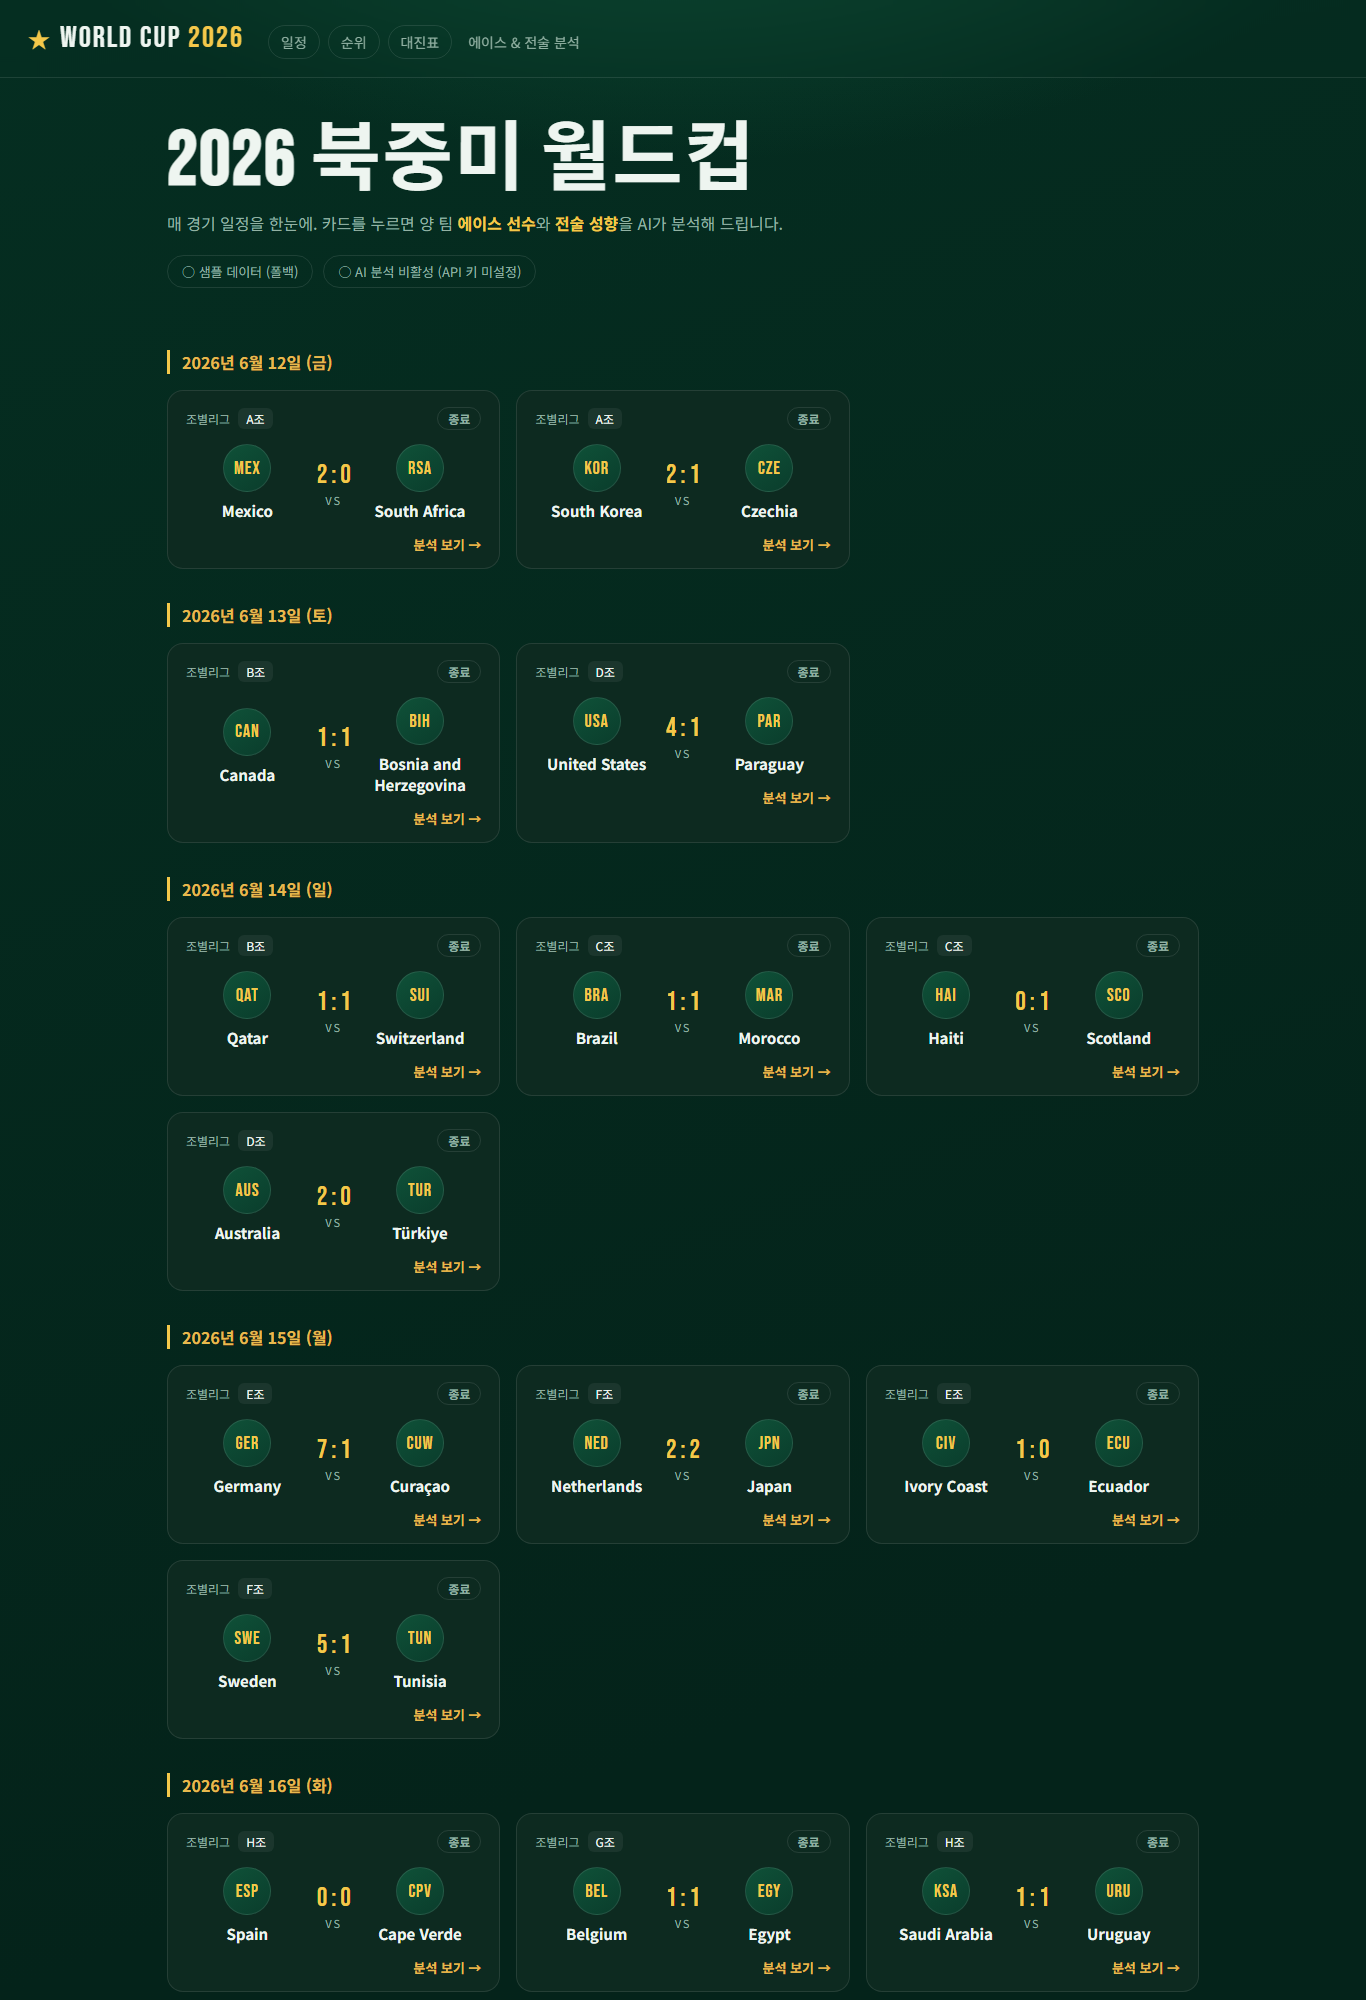
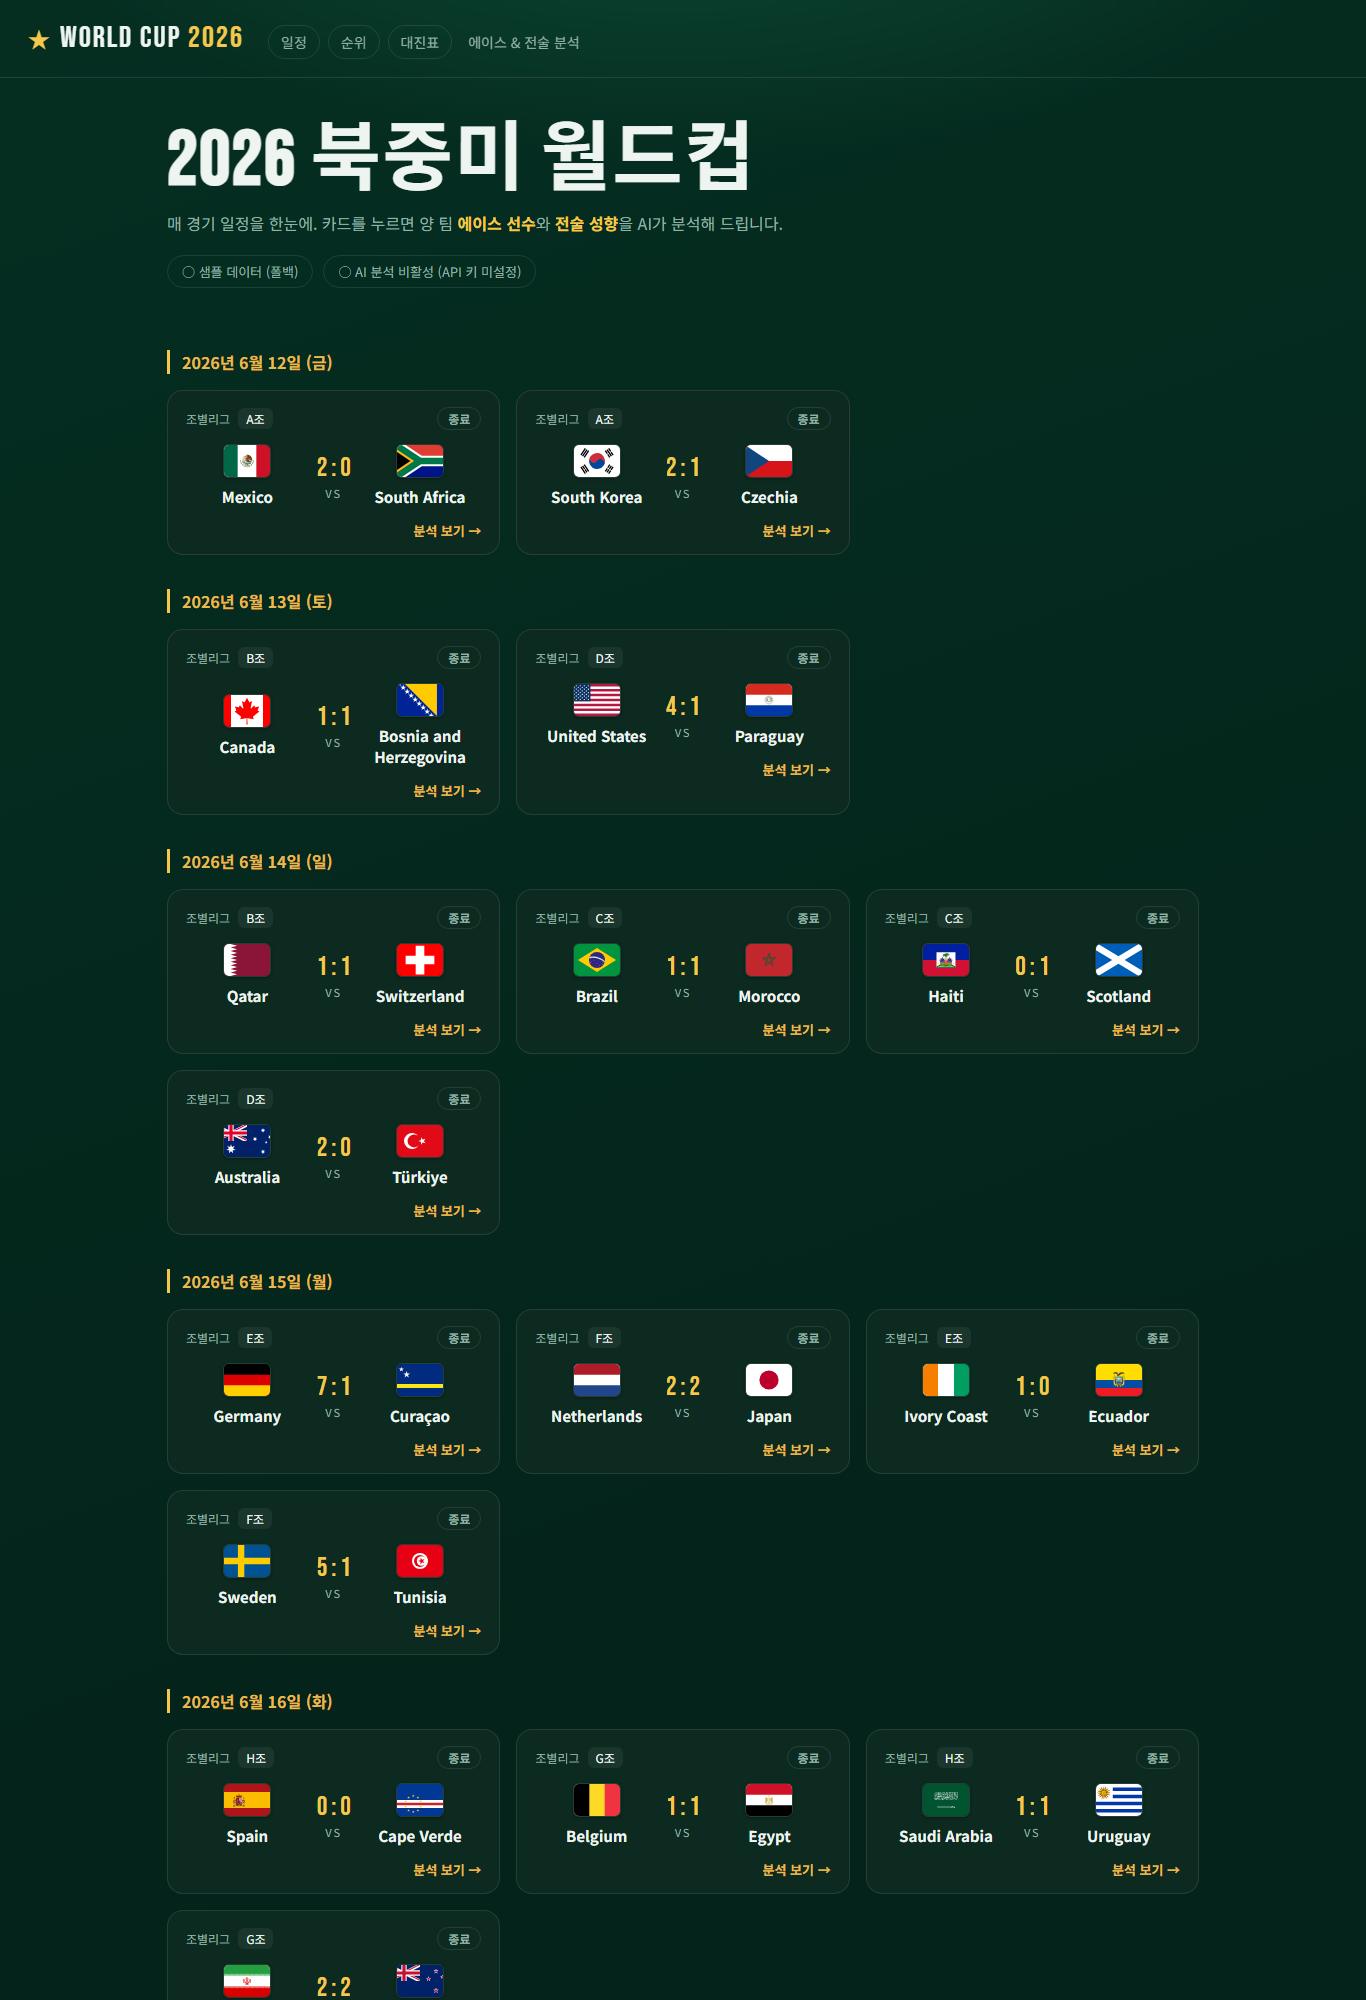
feat: show national flags across schedule, standings, bracket and match views
Add a Flags helper (@user) mapping team name -> ISO country code and serve
flags from flagcdn when the API-Football crest is unavailable (e.g. bundled
sample data). Flags appear on the schedule cards, group/third-place tables,
knockout bracket slots (resolved teams only), match scoreboard and team page,
making the bracket in particular much more visual.

Flag URLs are resolved via th:with before th:src, since Thymeleaf forbids bean
access in the restricted th:src/th:href expression context. Refresh README
screenshots and add the bracket screenshot.

diff --git a/src/main/resources/static/css/styles.css b/src/main/resources/static/css/styles.css
@@ -133,6 +133,20 @@ a { color: inherit; text-decoration: none; }
 .crest { width: 48px; height: 48px; object-fit: contain; }
 .crest.lg { width: 78px; height: 78px; }
 
+/* National flags (flagcdn) — used when no API crest is available */
+.flag {
+    width: 48px; height: 34px; object-fit: cover;
+    border-radius: 6px; border: 1px solid var(--line);
+    box-shadow: 0 1px 3px rgba(0, 0, 0, 0.35);
+}
+.flag.lg { width: 78px; height: 56px; border-radius: 8px; }
+.team-hero h1 { display: inline-flex; align-items: center; gap: 12px; }
+/* Compact inline flags inside tables and bracket slots */
+.c-team .flag, .slot .flag {
+    width: 22px; height: 16px; border-radius: 3px;
+    box-shadow: none; flex: none;
+}
+
 .center { display: flex; flex-direction: column; align-items: center; }
 .score { font-family: 'Bebas Neue', sans-serif; font-size: 26px; color: var(--gold); }
 .kickoff { font-family: 'Bebas Neue', sans-serif; font-size: 22px; }
@@ -256,9 +270,11 @@ a { color: inherit; text-decoration: none; }
     background: var(--gold); padding: 1px 7px; border-radius: 6px;
 }
 .slot {
+    display: flex; align-items: center; gap: 8px;
     font-size: 13px; font-weight: 700; padding: 7px 9px;
     background: var(--card-soft); border-radius: 8px;
 }
+.slot-name { min-width: 0; }
 .slot-vs { font-size: 10px; color: var(--muted); text-align: center; letter-spacing: 2px; margin: 4px 0; }
 
 /* ---------- Standings ---------- */
@@ -283,7 +299,7 @@ table.standings td { text-align: center; padding: 7px 4px; border-bottom: 1px so
 table.standings tr:last-child td { border-bottom: none; }
 .c-rank { width: 22px; color: var(--muted); }
 .c-team { text-align: left; font-weight: 700; }
-.c-team a { color: inherit; }
+.c-team a { color: inherit; display: inline-flex; align-items: center; gap: 7px; }
 .c-team a:hover { color: var(--gold); text-decoration: underline; }
 .c-pts { font-weight: 900; color: var(--gold); }
 

diff --git a/src/main/resources/templates/standings.html b/src/main/resources/templates/standings.html
@@ -34,8 +34,11 @@
                 <tr th:each="row, iter : ${entry.value.rows}"
                     th:classappend="${iter.index < 2} ? 'qual' : (${iter.index == 2} ? 'third' : 'out')">
                     <td class="c-rank" th:text="${iter.index + 1}">1</td>
-                    <td class="c-team">
-                        <a th:href="@{/teams/{n}(n=${row.team})}" th:text="${row.team}">팀</a>
+                    <td class="c-team" th:with="furl=${@flags.url(row.team)}">
+                        <a th:href="@{/teams/{n}(n=${row.team})}">
+                            <img class="flag" th:if="${furl != ''}" th:src="${furl}" alt="" loading="lazy"/>
+                            <span th:text="${row.team}">팀</span>
+                        </a>
                     </td>
                     <td th:text="${row.played}">3</td>
                     <td class="c-pts" th:text="${row.points}">9</td>
@@ -74,8 +77,11 @@
                 <tr th:each="tp : ${thirds}" th:classappend="${tp.qualified} ? 'qual' : 'out'">
                     <td class="c-rank" th:text="${tp.rank}">1</td>
                     <td th:text="${tp.group} + '조'">A조</td>
-                    <td class="c-team">
-                        <a th:href="@{/teams/{n}(n=${tp.row.team})}" th:text="${tp.row.team}">팀</a>
+                    <td class="c-team" th:with="furl=${@flags.url(tp.row.team)}">
+                        <a th:href="@{/teams/{n}(n=${tp.row.team})}">
+                            <img class="flag" th:if="${furl != ''}" th:src="${furl}" alt="" loading="lazy"/>
+                            <span th:text="${tp.row.team}">팀</span>
+                        </a>
                     </td>
                     <td th:text="${tp.row.played}">3</td>
                     <td class="c-pts" th:text="${tp.row.points}">4</td>

diff --git a/src/main/resources/templates/bracket.html b/src/main/resources/templates/bracket.html
@@ -22,9 +22,15 @@
                 <div class="ties">
                     <div class="tie" th:each="tie : ${round.ties}">
                         <span class="tie-no" th:if="${tie.no != ''}" th:text="${tie.no}">M1</span>
-                        <div class="slot" th:text="${tie.top}">상단</div>
+                        <div class="slot" th:with="furl=${@flags.url(tie.top)}">
+                            <img class="flag" th:if="${furl != ''}" th:src="${furl}" alt="" loading="lazy"/>
+                            <span class="slot-name" th:text="${tie.top}">상단</span>
+                        </div>
                         <div class="slot-vs">vs</div>
-                        <div class="slot" th:text="${tie.bottom}">하단</div>
+                        <div class="slot" th:with="furl=${@flags.url(tie.bottom)}">
+                            <img class="flag" th:if="${furl != ''}" th:src="${furl}" alt="" loading="lazy"/>
+                            <span class="slot-name" th:text="${tie.bottom}">하단</span>
+                        </div>
                     </div>
                 </div>
             </div>

diff --git a/src/main/resources/templates/index.html b/src/main/resources/templates/index.html
@@ -32,9 +32,10 @@
                           th:text="${m.statusLabel}">예정</span>
                 </div>
                 <div class="match-teams">
-                    <div class="team">
-                        <span class="crest-badge" th:if="${m.homeCrest == null}" th:text="${m.homeTla}">HOM</span>
+                    <div class="team" th:with="furl=${@flags.url(m.homeName)}">
                         <img class="crest" th:if="${m.homeCrest != null}" th:src="${m.homeCrest}" alt=""/>
+                        <img class="flag" th:if="${m.homeCrest == null and furl != ''}" th:src="${furl}" alt="" loading="lazy"/>
+                        <span class="crest-badge" th:if="${m.homeCrest == null and furl == ''}" th:text="${m.homeTla}">HOM</span>
                         <span class="team-name" th:text="${m.homeName}">홈팀</span>
                     </div>
                     <div class="center">
@@ -42,9 +43,10 @@
                         <span th:if="${m.scoreLabel == null}" class="kickoff" th:text="${m.timeLabel}">21:00</span>
                         <span class="vs">VS</span>
                     </div>
-                    <div class="team team-away">
-                        <span class="crest-badge" th:if="${m.awayCrest == null}" th:text="${m.awayTla}">AWY</span>
+                    <div class="team team-away" th:with="furl=${@flags.url(m.awayName)}">
                         <img class="crest" th:if="${m.awayCrest != null}" th:src="${m.awayCrest}" alt=""/>
+                        <img class="flag" th:if="${m.awayCrest == null and furl != ''}" th:src="${furl}" alt="" loading="lazy"/>
+                        <span class="crest-badge" th:if="${m.awayCrest == null and furl == ''}" th:text="${m.awayTla}">AWY</span>
                         <span class="team-name" th:text="${m.awayName}">원정팀</span>
                     </div>
                 </div>

diff --git a/src/main/resources/templates/match.html b/src/main/resources/templates/match.html
@@ -16,9 +16,10 @@
                   th:text="${match.statusLabel}">예정</span>
         </div>
         <div class="scoreboard">
-            <div class="sb-team">
-                <span class="crest-badge lg" th:if="${match.homeCrest == null}" th:text="${match.homeTla}">HOM</span>
+            <div class="sb-team" th:with="furl=${@flags.url(match.homeName)}">
                 <img class="crest lg" th:if="${match.homeCrest != null}" th:src="${match.homeCrest}" alt=""/>
+                <img class="flag lg" th:if="${match.homeCrest == null and furl != ''}" th:src="${furl}" alt="" loading="lazy"/>
+                <span class="crest-badge lg" th:if="${match.homeCrest == null and furl == ''}" th:text="${match.homeTla}">HOM</span>
                 <span class="sb-name" th:text="${match.homeName}">홈팀</span>
             </div>
             <div class="sb-center">
@@ -26,9 +27,10 @@
                 <span th:if="${match.scoreLabel == null}" class="sb-vs">VS</span>
                 <span class="sb-datetime" th:text="${match.dateLabel + ' ' + match.timeLabel}">날짜 시간</span>
             </div>
-            <div class="sb-team">
-                <span class="crest-badge lg" th:if="${match.awayCrest == null}" th:text="${match.awayTla}">AWY</span>
+            <div class="sb-team" th:with="furl=${@flags.url(match.awayName)}">
                 <img class="crest lg" th:if="${match.awayCrest != null}" th:src="${match.awayCrest}" alt=""/>
+                <img class="flag lg" th:if="${match.awayCrest == null and furl != ''}" th:src="${furl}" alt="" loading="lazy"/>
+                <span class="crest-badge lg" th:if="${match.awayCrest == null and furl == ''}" th:text="${match.awayTla}">AWY</span>
                 <span class="sb-name" th:text="${match.awayName}">원정팀</span>
             </div>
         </div>

diff --git a/src/main/resources/templates/team.html b/src/main/resources/templates/team.html
@@ -7,8 +7,11 @@
 <main class="container">
     <a class="back-link" th:href="@{/standings}">← 순위표</a>
 
-    <section class="hero hero-sm">
-        <h1 th:text="${teamName}">팀명</h1>
+    <section class="hero hero-sm team-hero" th:with="furl=${@flags.url(teamName)}">
+        <h1>
+            <img class="flag" th:if="${furl != ''}" th:src="${furl}" alt="" loading="lazy"/>
+            <span th:text="${teamName}">팀명</span>
+        </h1>
         <p>에이스 선수와 전술 성향 분석입니다.</p>
     </section>
 

diff --git a/src/main/java/sung/worldcupanalysis/web/Flags.java b/src/main/java/sung/worldcupanalysis/web/Flags.java
@@ -1,0 +1,80 @@
+package sung.worldcupanalysis.web;
+
+import org.springframework.stereotype.Component;
+
+import java.util.Map;
+
+/**
+ * Maps a team name to its national flag, so templates can show a flag image
+ * next to the team even when the (API-Football) crest is unavailable — e.g. the
+ * bundled sample data has no crests. Exposed to Thymeleaf as {@code @flags}.
+ *
+ * <p>Flags are served by <a href="https://flagcdn.com">flagcdn.com</a> keyed by
+ * ISO 3166-1 alpha-2 codes (plus GB subdivisions for England/Scotland). Unknown
+ * strings (bracket placeholders like "A조 2위" or "M74 승자") return an empty
+ * URL, so templates render only real teams.
+ */
+@Component("flags")
+public class Flags {
+
+    private static final Map<String, String> CODES = Map.ofEntries(
+            Map.entry("Mexico", "mx"),
+            Map.entry("South Africa", "za"),
+            Map.entry("South Korea", "kr"),
+            Map.entry("Czechia", "cz"),
+            Map.entry("Canada", "ca"),
+            Map.entry("Bosnia and Herzegovina", "ba"),
+            Map.entry("Qatar", "qa"),
+            Map.entry("Switzerland", "ch"),
+            Map.entry("Brazil", "br"),
+            Map.entry("Morocco", "ma"),
+            Map.entry("Haiti", "ht"),
+            Map.entry("Scotland", "gb-sct"),
+            Map.entry("United States", "us"),
+            Map.entry("Paraguay", "py"),
+            Map.entry("Australia", "au"),
+            Map.entry("Türkiye", "tr"),
+            Map.entry("Germany", "de"),
+            Map.entry("Curaçao", "cw"),
+            Map.entry("Ivory Coast", "ci"),
+            Map.entry("Ecuador", "ec"),
+            Map.entry("Netherlands", "nl"),
+            Map.entry("Japan", "jp"),
+            Map.entry("Sweden", "se"),
+            Map.entry("Tunisia", "tn"),
+            Map.entry("Belgium", "be"),
+            Map.entry("Iran", "ir"),
+            Map.entry("Egypt", "eg"),
+            Map.entry("New Zealand", "nz"),
+            Map.entry("Spain", "es"),
+            Map.entry("Cape Verde", "cv"),
+            Map.entry("Uruguay", "uy"),
+            Map.entry("Saudi Arabia", "sa"),
+            Map.entry("France", "fr"),
+            Map.entry("Iraq", "iq"),
+            Map.entry("Norway", "no"),
+            Map.entry("Senegal", "sn"),
+            Map.entry("Argentina", "ar"),
+            Map.entry("Austria", "at"),
+            Map.entry("Jordan", "jo"),
+            Map.entry("Algeria", "dz"),
+            Map.entry("Portugal", "pt"),
+            Map.entry("Colombia", "co"),
+            Map.entry("Uzbekistan", "uz"),
+            Map.entry("DR Congo", "cd"),
+            Map.entry("England", "gb-eng"),
+            Map.entry("Ghana", "gh"),
+            Map.entry("Panama", "pa"),
+            Map.entry("Croatia", "hr"));
+
+    /** ISO code for a team name, or {@code null} if not a known nation. */
+    public String code(String teamName) {
+        return teamName == null ? null : CODES.get(teamName.trim());
+    }
+
+    /** flagcdn SVG URL for a team, or {@code ""} if the name isn't a nation. */
+    public String url(String teamName) {
+        String code = code(teamName);
+        return code == null ? "" : "https://flagcdn.com/" + code + ".svg";
+    }
+}